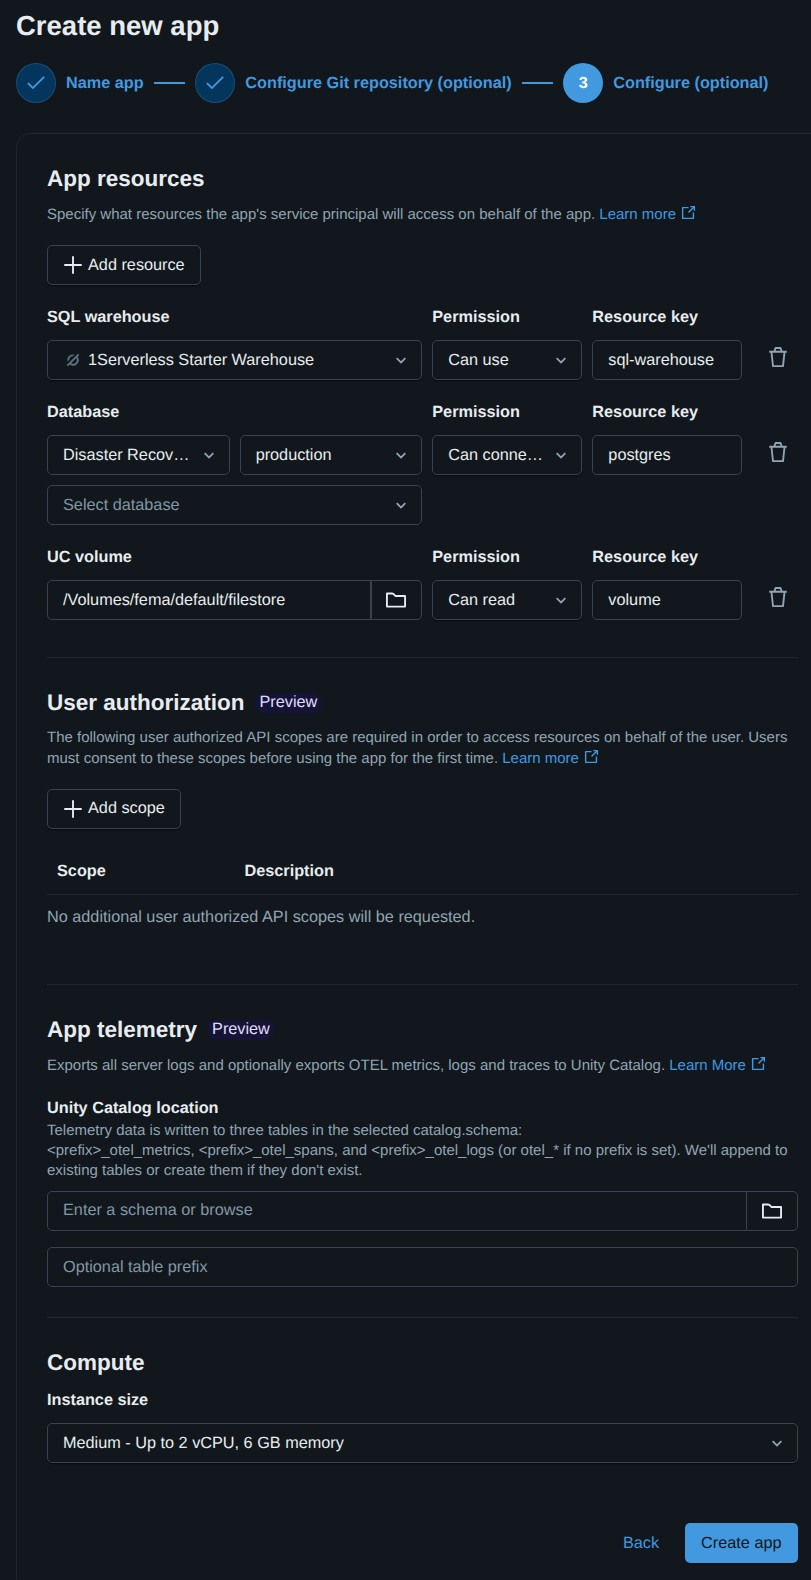
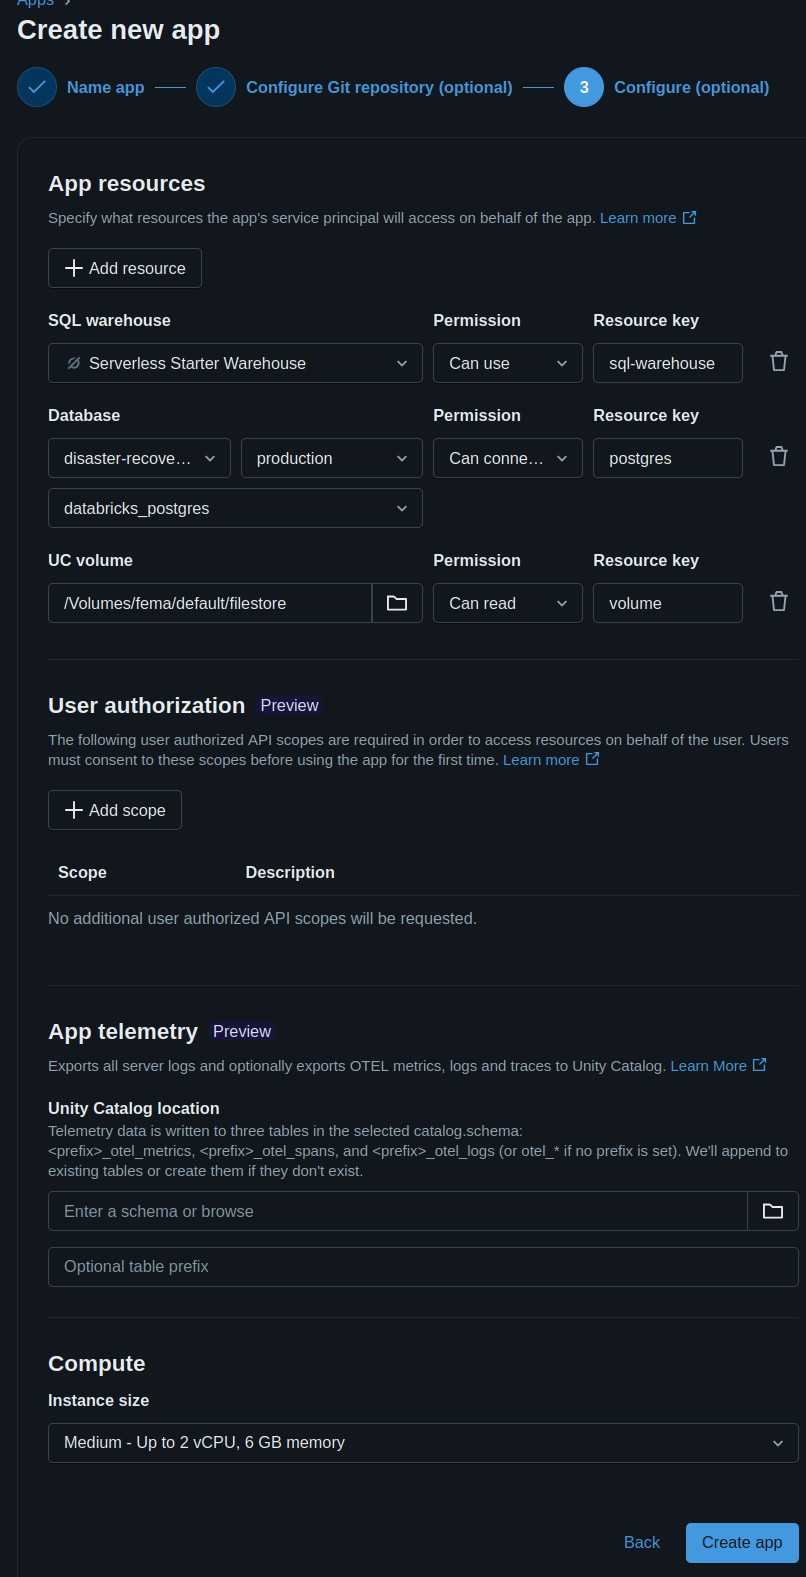
fixed privs steps in lab 1

diff --git a/lab-materials/lab-1/lab-1-deploy-databricks-app.md b/lab-materials/lab-1/lab-1-deploy-databricks-app.md
@@ -37,12 +37,14 @@ Skim these items so deployment choices make sense:
 
 ## Part C — Create a Databricks App
 
+**Ensure you are clicking Next when deploying the app and not Create button.**
+
 1. Click on the Create button. ![create app](./images/selectApp.jpeg)
 
 2. Select Custom App ![select app](./images/customApp.jpeg)
 
 
-3. Name Your Application fema-claims-tracker-<your name> then click Next. The max. length for an application is 30 characters so you may have to shorten your name.
+3. Name Your Application **fema-claims-tracker-< your name >** then click Next. The max. length for an application is 30 characters so you may have to shorten your name.
 
 4. Configure Git Source. Add the git url of the project as the source for the app. Click Create App ![select app](./images/gitApp.jpeg)
 
@@ -51,36 +53,36 @@ Skim these items so deployment choices make sense:
    - **SQL Warehouse** serves as the data warehouse for analytics and heavy reporting.
    - **UC Volume** serves as a filestore to hold non-tabular data such as images and files. Ensure the permissions are set to **Read And Write**.
 
+   - Leave the app telemetry blank
+
 6. Click the Deploy button. Use **`main`** as the branch and then click Deploy ![select app](./images/deployApp.jpeg)
 
-7. It will take 2 to 3 minutes for the initial deployment. Future deployments will be much faster. After the deployment is complete click on the URL for the app and verify you are able to log in to the app.
+7. It will take 2 to 3 minutes for the initial deployment. Future deployments will be much faster. 
+8. The application will fail due to a lack of database permissions which you will next in the next part.
 
 ---
 
-## Part D — Resolve "permission denied for schema public"
+## Part D — Grant the App Service Principal Database Permissions
 
-On its first run, the app tries to create its tables (`fema_categories`, `claims`, `documents`, `claim_status_history`) in the Lakebase `public` schema. PostgreSQL 15+ tightened the default permissions on `public`, so on a brand‑new Lakebase the app's role cannot create objects there yet. You will see this in the app logs (and the app UI may show an error on first load):
+When Databricks Apps deploys your app it creates a dedicated **service principal (SP)** and automatically grants it the ability to *connect* to the Lakebase project you configured in Part C. However, connection access alone is not enough — the SP does not yet have permission to read or write any tables, sequences, or other database objects inside the database.
 
-```
-psycopg.errors.InsufficientPrivilege: permission denied for schema public
-LINE 1: CREATE TABLE IF NOT EXISTS fema_categories (
-```
+To keep this lab simple we will grant the SP the built-in **`databricks_superuser`** role, which gives it full control over all objects in the database.
 
-Grant your app's Postgres role permission to use and create objects in `public`, then redeploy.
+> **⚠ Not a production pattern.** Granting `databricks_superuser` to an application principal is convenient for a short-lived lab environment but is not a best practice for production. In a real deployment you would create a dedicated role with only the privileges the app needs (e.g. `SELECT`, `INSERT`, `UPDATE`, `DELETE` on the specific tables), follow the principle of least privilege, and rotate credentials regularly.
 
-1. In the Lakebase view, open the **`disaster-recovery-tracker`** project.
-2. Click the **New Query** button (or open the **SQL Editor** for the Lakebase). This connects you as the Lakebase owner role (`databricks_superuser`), which has permission to grant on `public`.
-3. Confirm you are connected to the **`databricks_postgres`** database (the default Lakebase database). Then run:
+### Steps
 
-   ```sql
-   GRANT USAGE, CREATE ON SCHEMA public TO PUBLIC;
-   ```
-
-   This grants every existing and future role in this Lakebase — including your app's service principal — the ability to use the `public` schema and create tables in it. (For a tighter grant, replace `PUBLIC` with the quoted service-principal role name of your app.)
-
-4. Return to your app's page in Databricks and click **Deploy** again (branch `main`). Once the new deployment is **Running**, refresh the app URL — the bootstrap script will now succeed and you should land on the app's home page.
-
-> If the error reappears after the redeploy, double-check that the `disaster-recovery-lakebase` resource on your app points at the `disaster-recovery-tracker` project / `production` branch / `primary` endpoint and that the resource has **Read And Write** access.
+1. In the App view go to your application and then click on the **`Authorization`** on the left vertical menu. Make note of your applications's **service principal**.
+ ![find sp](./images/findAppSP.jpeg)
+2. In the Lakebase Postgres  view, open the **`Disaster Recovery Tracker`** Lakebase project.
+3. Click on **`Overview`** under the Branch.
+4. Click on **`Roles & Database`** tab.
+5. Locate the service principal for your app.
+6. Click 3 dot icon to the right and then click **`Edit`**.
+7. Under **System roles**, select **`databricks_superuser`**.
+8. Click **`Save`**.
+9. Return to your application overview page and click **`Deploy`** button.
+10. Verify your application remains in a running state.
 
 ---
 
